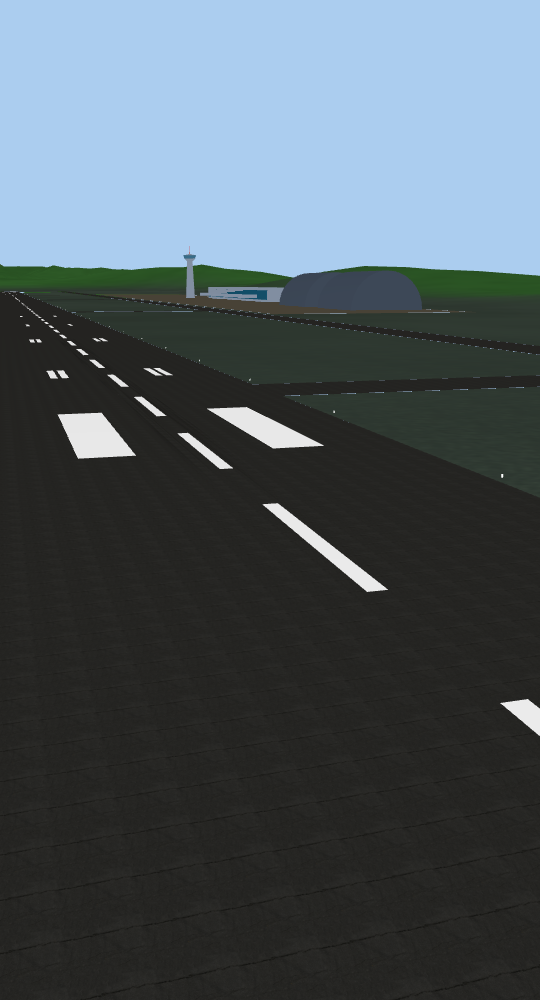
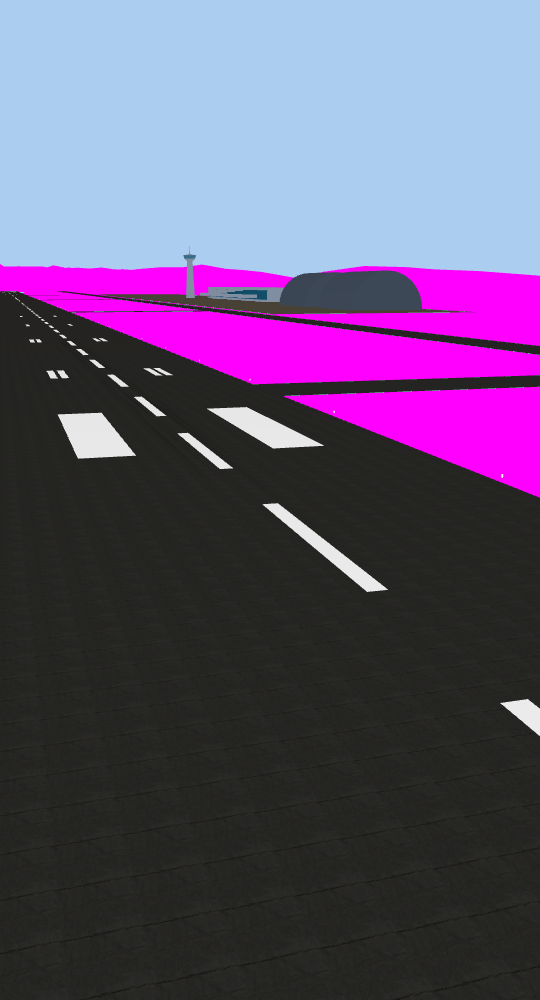
test(rendering): detect terrain exposure at ordinary precision

Changed region(s): [[0.0, 0.248, 1.0, 0.496]]

diff --git a/review-artifacts/pavement-depth/README.md b/review-artifacts/pavement-depth/README.md
@@ -3,16 +3,19 @@
 Galaxy S24+, Android Brave: user reports checkerboard flicker survives #175 in
 Performance mode and is reduced at higher quality. The live bundle includes #175.
 
-Intel GPU / ANGLE Vulkan, low and high terrain quality, 32 total renders:
+Intel GPU / ANGLE Vulkan, low and high terrain quality, 48 total renders:
 - Ordinary precision: zero exposed-terrain samples before and after.
 - Explicit 12-bit depth stress: 9,050 before, zero after, per quality path,
   across 264,147 interior-runway samples (four camera positions).
+- Ordinary-precision positive control (terrain depth testing disabled):
+  264,127 before, zero after, per quality. All measured cases color terrain magenta
+  independently of quantization; every exclusion case asserts zero exposure.
 - Zero browser/shader errors. See `report.json`.
 
-The magenta terrain in `low-stress-before.png` and `low-stress-after.png` is a
-diagnostic override. Quantized depth and forced terrain draw order deliberately
+The magenta terrain in every isolated-scene capture is a diagnostic override. Quantized depth and forced terrain draw order deliberately
 stress depth competition; they do not simulate a Galaxy GPU. `low-normal-after.png`
-is an ordinary-precision view. Paint artifacts under the stress injection are
+is an ordinary-precision diagnostic view. `low-control-before.png` and
+`low-control-after.png` show the detector positive control. Paint artifacts under the stress injection are
 outside this terrain-coverage assertion.
 
 Reproduction and limits: `docs/development/pavement.md`. Actual S24+ confirmation
@@ -26,3 +29,7 @@ records the quality transitions. This desktop mobile viewport check is not an
 Android driver or touch-interaction test.
 
 Validation: syntax/action checks, all 447 Node tests and production build passed.
+
+Review correction: the first report colored terrain only in stress mode, so its
+ordinary-precision zero counts were unsupported. This regenerated report uses
+magenta in all modes and adds explicit ordinary-precision positive controls.

diff --git a/docs/development/pavement.md b/docs/development/pavement.md
@@ -107,12 +107,17 @@ SIM_URL=http://127.0.0.1:5267 chrome-session --project flight3d node scripts/ver
 The script uses production terrain/pavement shaders in low and high terrain
 quality, four camera positions each, before/after exclusion and with/without
 an explicit 12-bit logarithmic-depth stress injection. Magenta identifies
-terrain fragments; raycasts select interior runway samples. Terrain deliberately
+terrain fragments independently of depth quantization in every measured case;
+raycasts select interior runway samples. Terrain deliberately
 draws last so equal-depth fragments expose the overlap. The stress injection is
 an adversarial test, **not an emulation of the S24+ GPU**. Both quality paths
 reduce 9,050 exposed-terrain samples to zero, out of 264,147 samples per case.
-At ordinary precision both versions have zero exposed-terrain samples. Shader
-and browser errors fail the check. See [evidence](../../review-artifacts/pavement-depth/README.md).
+At ordinary precision both versions have zero exposed-terrain samples. An extra
+ordinary-precision positive control disables terrain depth testing: the detector
+then counts 264,127 exposed samples before exclusion and zero after, per quality.
+All six exclusion cases (normal, stress and control × low/high) must have zero
+exposure. The 12 cases total 48 renders; shader and browser errors fail the check.
+See [evidence](../../review-artifacts/pavement-depth/README.md).
 
 Device confirmation remains necessary: removing overlap addresses a concrete
 precision vulnerability but does not establish that it caused the phone's
